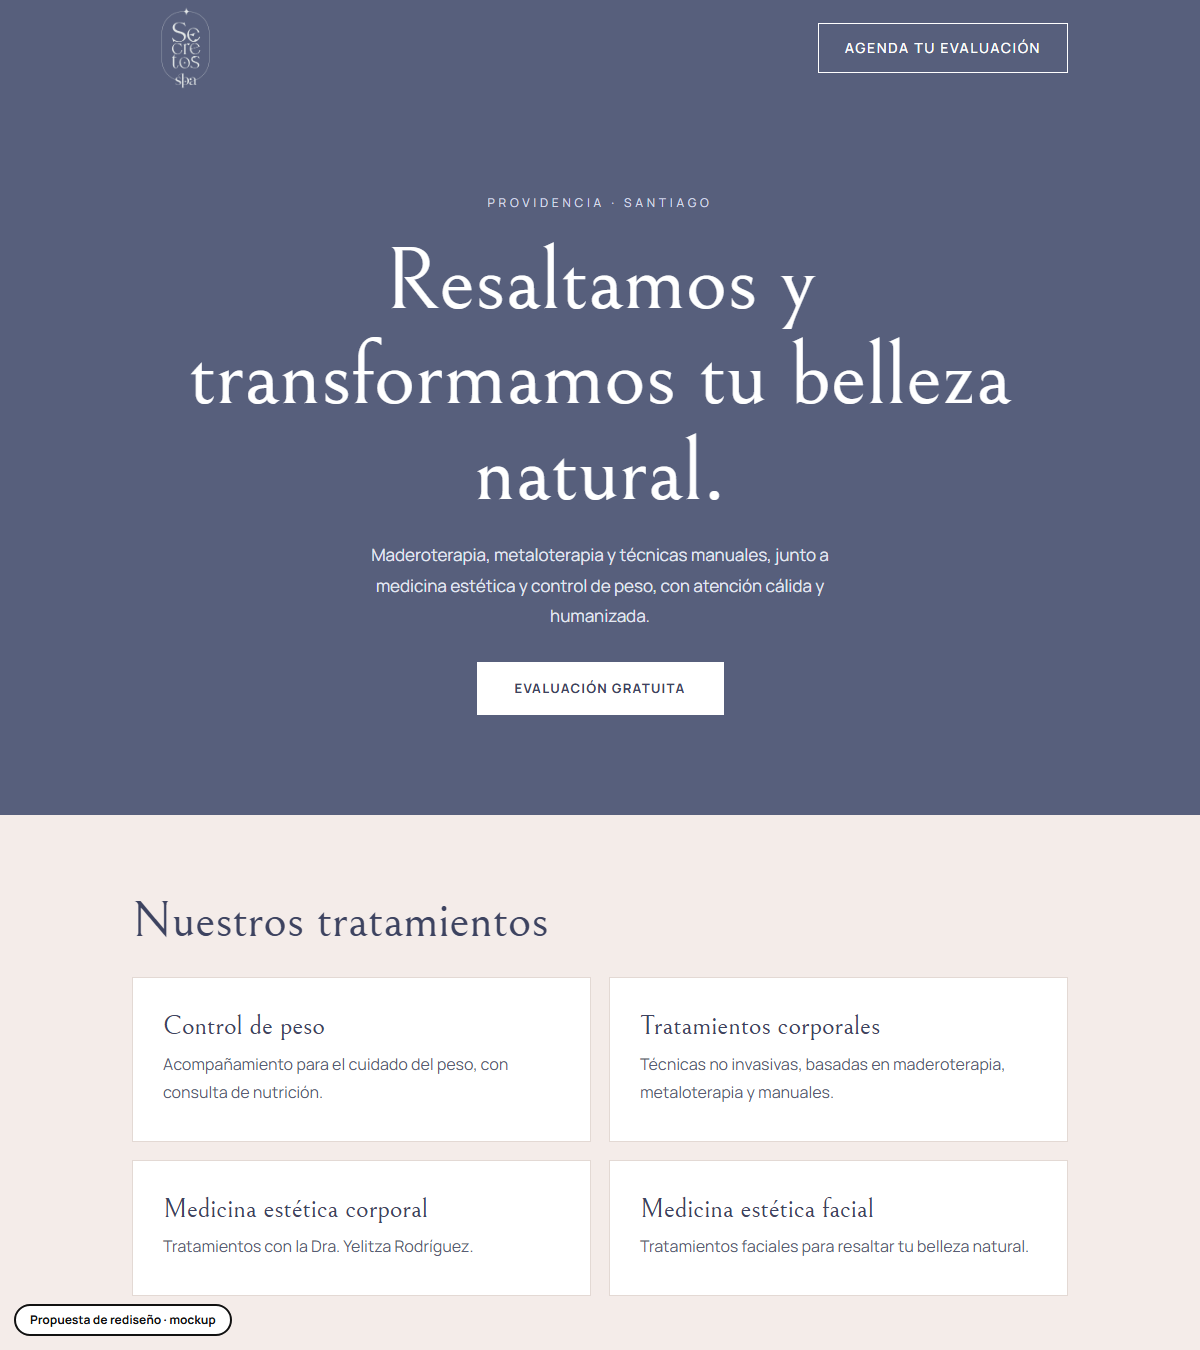
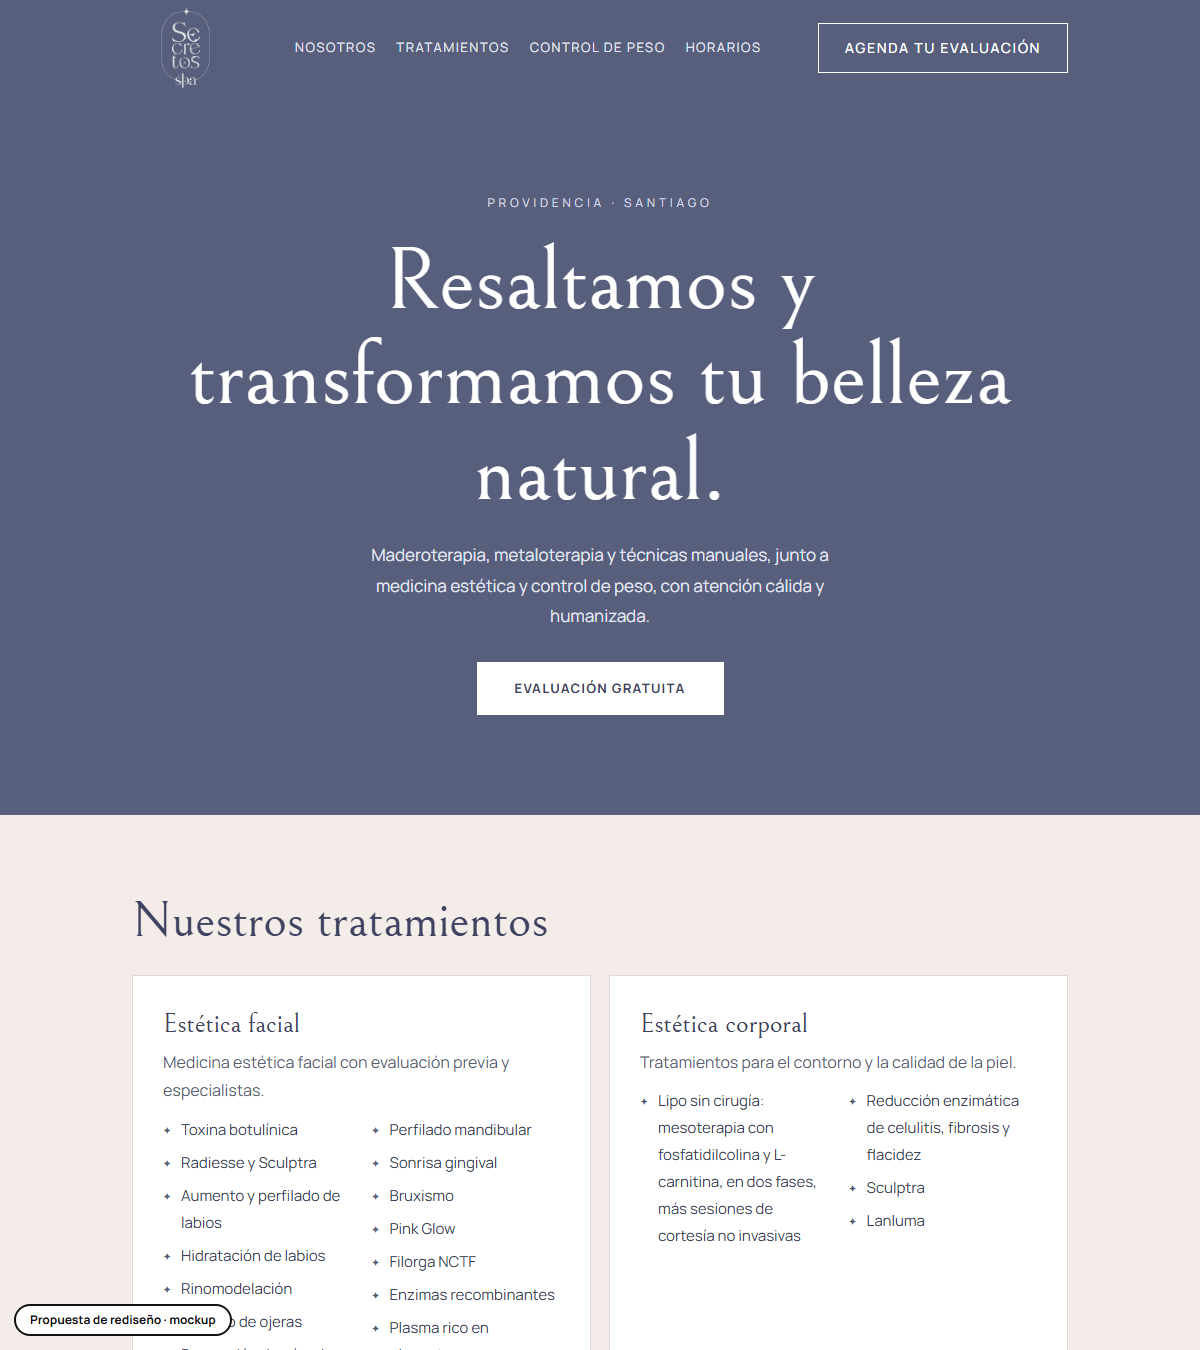
Mockup: secretos-spa-providencia

diff --git a/secretos-spa-providencia/index.html b/secretos-spa-providencia/index.html
@@ -6,12 +6,12 @@
 <link href="https://fonts.googleapis.com/css2?family=Bellefair&family=Manrope:wght@400;500;700&display=swap" rel="stylesheet">
 <style>
 :root{--slate:#575f7c;--deep:#3d4360;--mist:#e4e8f1;--blush:#f4ece9;--ink:#262a3d}
-*{box-sizing:border-box;margin:0}html{scroll-behavior:smooth}
+*{box-sizing:border-box;margin:0}html{scroll-behavior:smooth;scroll-padding-top:100px}
 @media(prefers-reduced-motion:reduce){html{scroll-behavior:auto}}
 body{background:var(--blush);color:var(--ink);font:400 17px/1.8 Manrope,sans-serif}
 .wrap{max-width:980px;margin:0 auto;padding:0 22px}
 h1,h2,h3{font-family:Bellefair,serif;font-weight:400;line-height:1.08}
-header{background:var(--slate)}header .wrap{display:flex;justify-content:space-between;align-items:center;height:96px;gap:12px}
+header{position:sticky;top:0;z-index:20;background:var(--slate)}header .wrap{display:flex;justify-content:space-between;align-items:center;height:96px;gap:12px}
 header img{height:84px}
 header a.b{border:1px solid #fff;color:#fff;text-decoration:none;padding:11px 26px;font-weight:500;font-size:14px;letter-spacing:.12em;text-transform:uppercase}
 header a.b:hover{background:#fff;color:var(--slate)}
@@ -31,17 +31,17 @@ section{padding:80px 0}h2{font-size:clamp(30px,4.6vw,50px);color:var(--deep);mar
 .contact a.l{display:block;font:400 clamp(34px,6vw,62px) Bellefair;color:#fff;text-decoration:none;margin:10px 0}.contact a.l:hover{color:#d6dbea}
 .contact p{color:#d6dbea}
 footer{padding:22px 0 90px;text-align:center;font-size:12px;letter-spacing:.2em;color:#7b7f92}
-.mock{position:fixed;left:14px;bottom:14px;background:#fff;color:#111;border:2px solid #111;font:700 12px/1 Manrope;padding:8px 14px;border-radius:30px;z-index:9}
+.mock{z-index:30;position:fixed;left:14px;bottom:14px;background:#fff;color:#111;border:2px solid #111;font:700 12px/1 Manrope;padding:8px 14px;border-radius:30px;z-index:9}
 @media(max-width:800px){.svc,.hrs{grid-template-columns:1fr}.hrs div{border-right:0;border-bottom:1px solid #c9cfe0}.hero .wrap{padding:56px 22px 64px}}
-</style></head><body>
-<header><div class="wrap"><img src="assets/isologo-3-e1737832045831-1024x806.png" alt="Secretos SPA"><a class="b" href="https://wa.me/56936399615?text=Hola%2C%20quisiera%20agendar%20una%20evaluaci%C3%B3n">Agenda tu evaluación</a></div></header>
+nav{display:flex;gap:20px;font-size:13px;letter-spacing:.12em;text-transform:uppercase}nav a{color:#e3e7f2;text-decoration:none}nav a:hover{color:#fff;text-decoration:underline}.cols{display:grid;grid-template-columns:1fr 1fr;gap:18px;margin-top:26px}.cols>div{background:#fff;border:1px solid #e3d9d4;padding:34px 30px}.cols h3{font-size:27px;color:var(--deep);margin-bottom:8px}.cols p{font-size:16px;color:#585d73;margin-bottom:8px}.cols ul{list-style:none;padding:0;margin-top:8px;columns:2;column-gap:20px}.cols li{font-size:15px;padding:3px 0 3px 18px;position:relative;color:#3a3f56;break-inside:avoid}.cols li:before{content:"✦";position:absolute;left:0;color:var(--slate);font-size:10px;top:8px}.disc{margin-top:20px;font-size:14px;color:#7b7f92}@media(max-width:800px){nav{display:none}.cols{grid-template-columns:1fr}.cols ul{columns:1}}</style></head><body>
+<header><div class="wrap"><img src="assets/isologo-3-e1737832045831-1024x806.png" alt="Secretos SPA"><nav><a href="#nosotros">Nosotros</a><a href="#servicios">Tratamientos</a><a href="#peso">Control de peso</a><a href="#contacto">Horarios</a></nav><a class="b" href="https://wa.me/56936399615?text=Hola%2C%20quisiera%20agendar%20una%20evaluaci%C3%B3n">Agenda tu evaluación</a></div></header>
 <div class="hero"><div class="wrap"><small>Providencia · Santiago</small><h1>Resaltamos y transformamos tu belleza natural.</h1><p>Maderoterapia, metaloterapia y técnicas manuales, junto a medicina estética y control de peso, con atención cálida y humanizada.</p><a class="btn" href="https://wa.me/56936399615?text=Hola%2C%20quisiera%20agendar%20una%20evaluaci%C3%B3n%20gratuita">Evaluación gratuita</a></div></div>
-<section><div class="wrap"><h2>Nuestros tratamientos</h2><div class="svc">
-<div><h3>Control de peso</h3><p>Acompañamiento para el cuidado del peso, con consulta de nutrición.</p></div>
-<div><h3>Tratamientos corporales</h3><p>Técnicas no invasivas, basadas en maderoterapia, metaloterapia y manuales.</p></div>
-<div><h3>Medicina estética corporal</h3><p>Tratamientos con la Dra. Yelitza Rodríguez.</p></div>
-<div><h3>Medicina estética facial</h3><p>Tratamientos faciales para resaltar tu belleza natural.</p></div></div></div></section>
-<section class="about"><div class="wrap"><h2>Nuestra historia</h2><p>Secretos SPA nació como un emprendimiento personal en 2020. Desde el inicio trabajan con maderoterapia, metaloterapia y técnicas manuales.</p><p>En 2024 sumaron nuevos tratamientos con la Dra. Yelitza Rodríguez y abrieron una consulta de nutrición, manteniendo la calidez y cercanía de siempre.</p>
+<section id="servicios"><div class="wrap"><h2>Nuestros tratamientos</h2><div class="cols">
+<div><h3>Estética facial</h3><p>Medicina estética facial con evaluación previa y especialistas.</p><ul><li>Toxina botulínica</li><li>Radiesse y Sculptra</li><li>Aumento y perfilado de labios</li><li>Hidratación de labios</li><li>Rinomodelación</li><li>Borrado de ojeras</li><li>Proyección de pómulos y de mentón</li><li>Perfilado mandibular</li><li>Sonrisa gingival</li><li>Bruxismo</li><li>Pink Glow</li><li>Filorga NCTF</li><li>Enzimas recombinantes</li><li>Plasma rico en plaquetas</li><li>Mesoterapia</li></ul></div>
+<div><h3>Estética corporal</h3><p>Tratamientos para el contorno y la calidad de la piel.</p><ul><li>Lipo sin cirugía: mesoterapia con fosfatidilcolina y L-carnitina, en dos fases, más sesiones de cortesía no invasivas</li><li>Reducción enzimática de celulitis, fibrosis y flacidez</li><li>Sculptra</li><li>Lanluma</li></ul></div>
+<div><h3>Tratamientos corporales no invasivos</h3><p>La base de Secretos SPA desde 2020: maderoterapia, metaloterapia y técnicas manuales, con atención cálida y humanizada.</p></div>
+<div id="peso"><h3>Control de peso y nutrición</h3><p>Consulta médica de control de peso: una evaluación integral de tu salud para identificar factores médicos que influyen en el peso y definir el abordaje adecuado.</p><p>Consulta nutricional personalizada con planes de alimentación adaptados, educación y seguimiento. El <b>Plan Nutricional Secretos</b> incluye una consulta, dos controles y tres análisis corporales InBody.</p></div></div><p class="disc">Los tratamientos de medicina estética se indican tras una evaluación con la profesional; la evaluación inicial es gratuita.</p></div></section>
+<section class="about" id="nosotros"><div class="wrap"><h2>Nuestra historia</h2><p>Secretos SPA nació como un emprendimiento personal en 2020, en pleno confinamiento. Desde el inicio se enfocó en maderoterapia, metaloterapia y técnicas manuales. Gracias a las redes sociales llegó a un público más amplio, que busca tratamientos efectivos y confiables para su bienestar y su estética.</p><p>En 2024 sumó nuevos tratamientos con la Dra. Yelitza Rodríguez y abrió una consulta de nutrición, para acompañar de forma más integral a sus clientas. Su mayor valor, dicen, son las personas que atienden.</p>
 <div class="hrs"><div><b>Lunes a jueves</b>10:00 a 13:00 y 15:00 a 20:00</div><div><b>Viernes</b>10:00 a 14:00</div><div><b>Sábado</b>10:00 a 14:00</div></div></div></section>
 <section class="contact" id="contacto"><div class="wrap"><h2>Agenda tu evaluación</h2><a class="l" href="https://wa.me/56936399615">+56 9 3639 9615</a><p>General Holley 2381, Providencia · Tel. +56 9 3096 1180<br><a style="color:#fff" href="mailto:contacto@secretos-spa.com">contacto@secretos-spa.com</a></p></div></section>
 <footer>SECRETOS SPA · PROVIDENCIA</footer>
